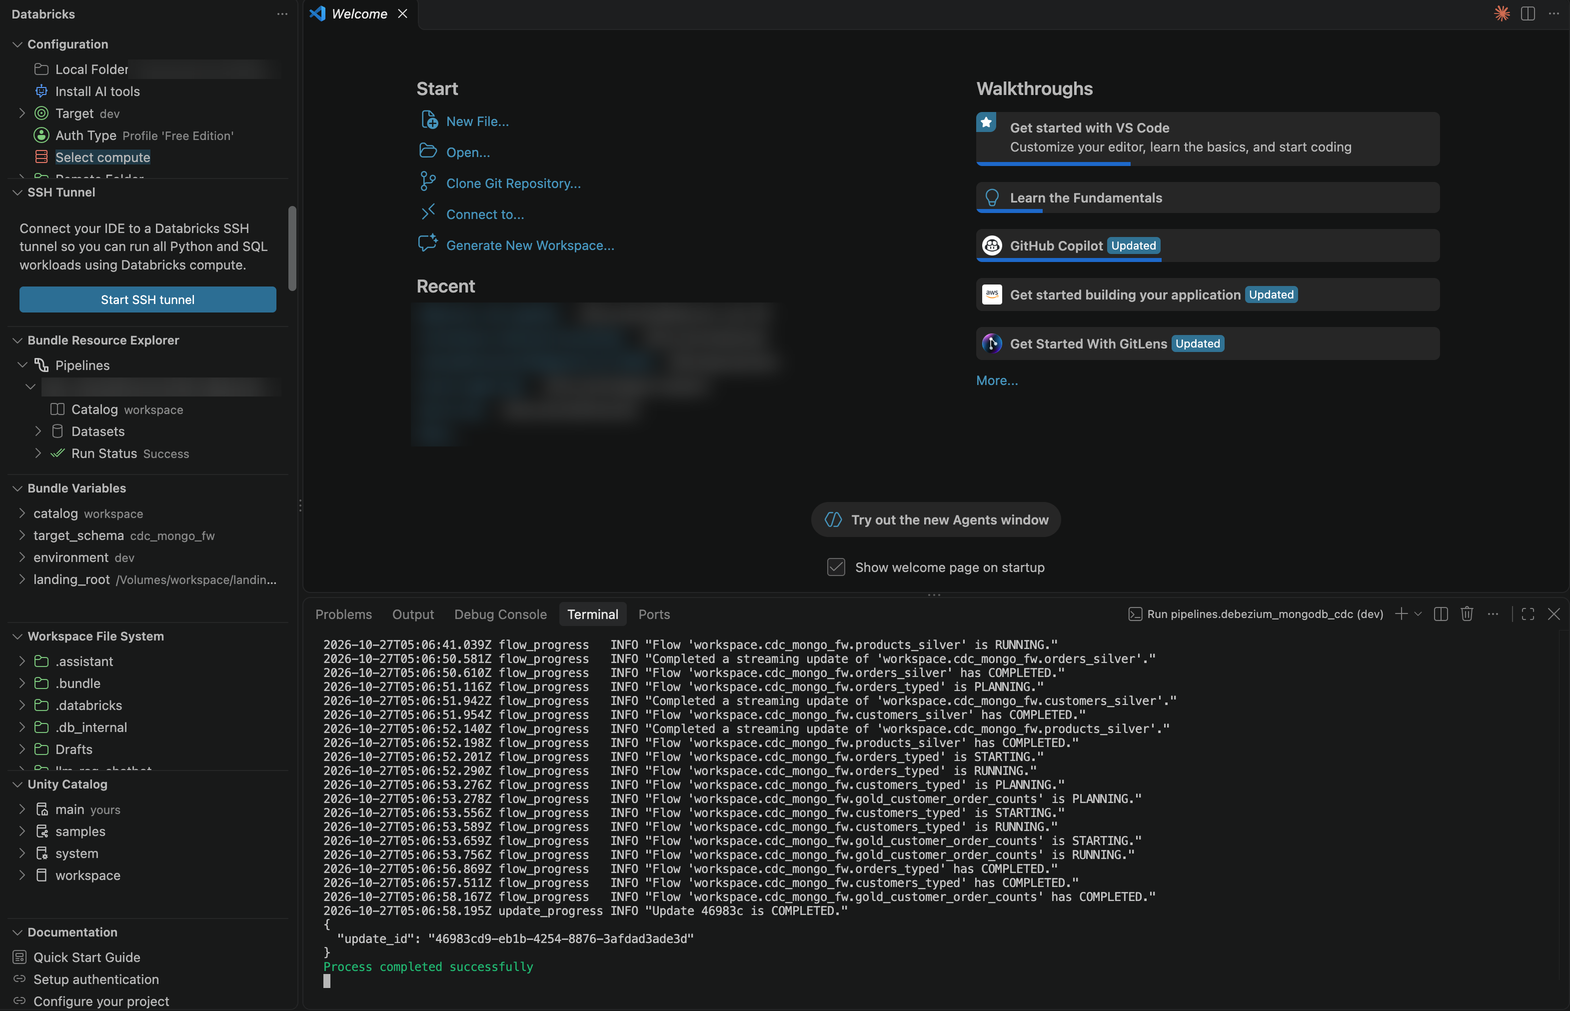
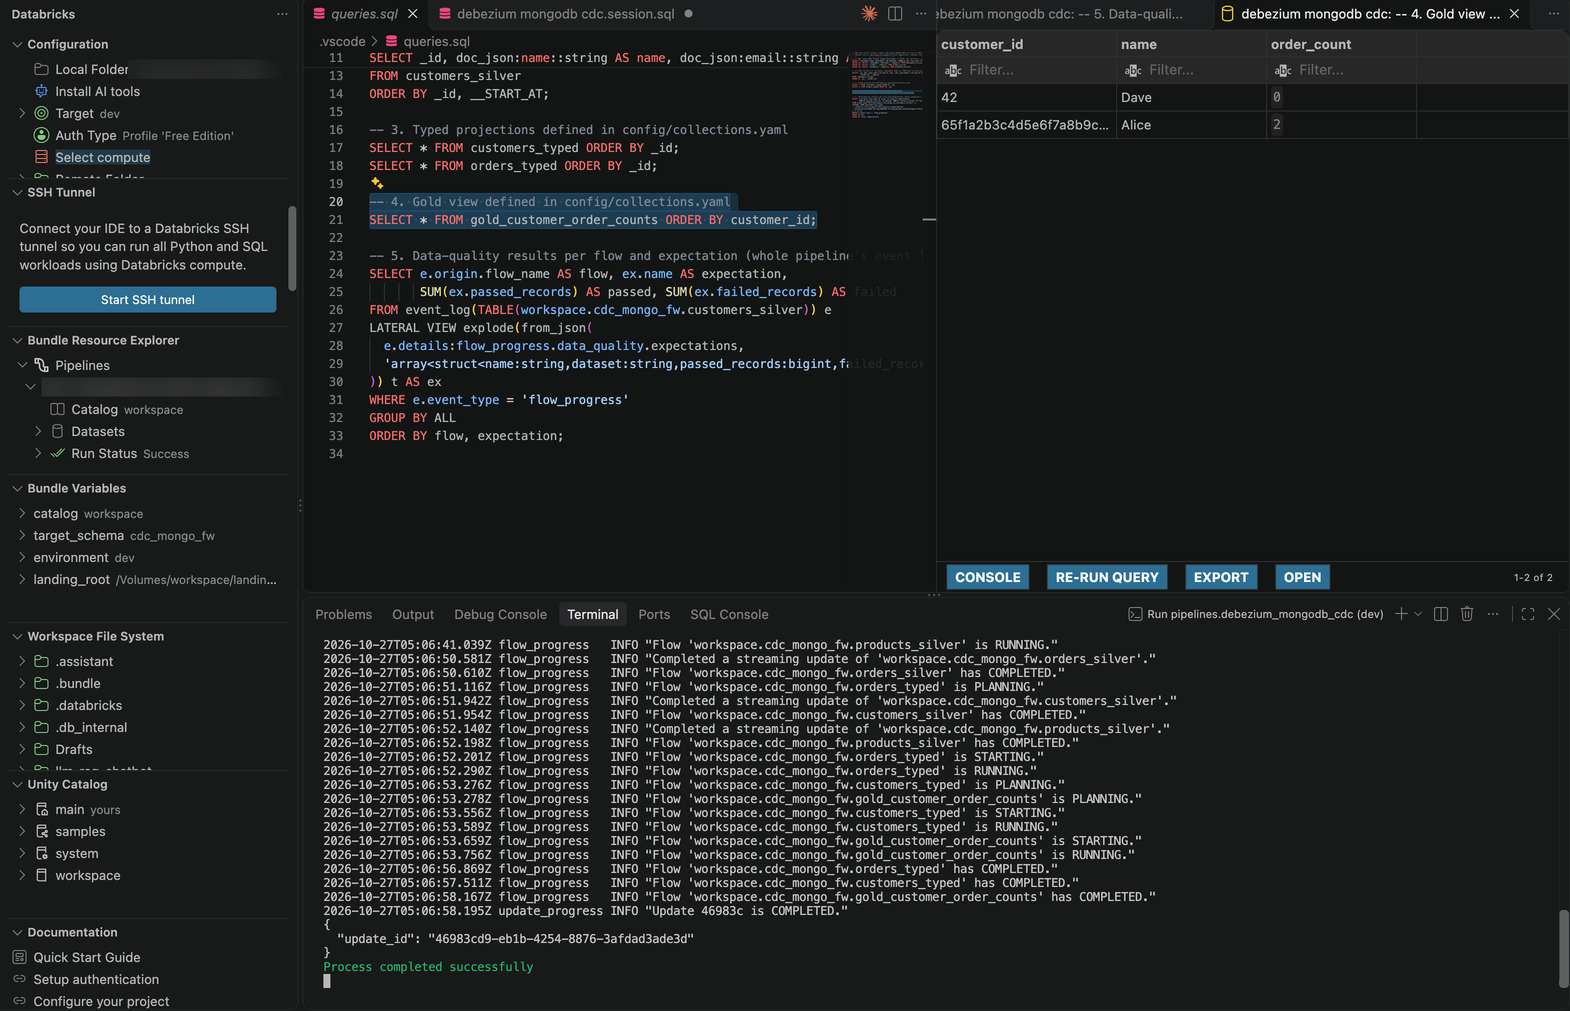
docs: VS Code screenshot shows the SQLTools query results

diff --git a/README.md b/README.md
@@ -233,7 +233,7 @@ serverless compute in the workspace, so Databricks Connect is not used
 Optionally, [SQLTools](https://marketplace.visualstudio.com/items?itemName=mtxr.sqltools)
 with the Databricks driver queries the resulting tables.
 
-![VS Code: Databricks extension signed in with the Free Edition profile, the deployed pipeline with Run Status Success, and the pipeline run log](docs/images/vscode.png)
+![VS Code: Databricks extension with the deployed pipeline, a SQLTools query over the gold view, and the pipeline run log](docs/images/vscode.png)
 
 **One-time setup** (all files below are git-ignored):
 
